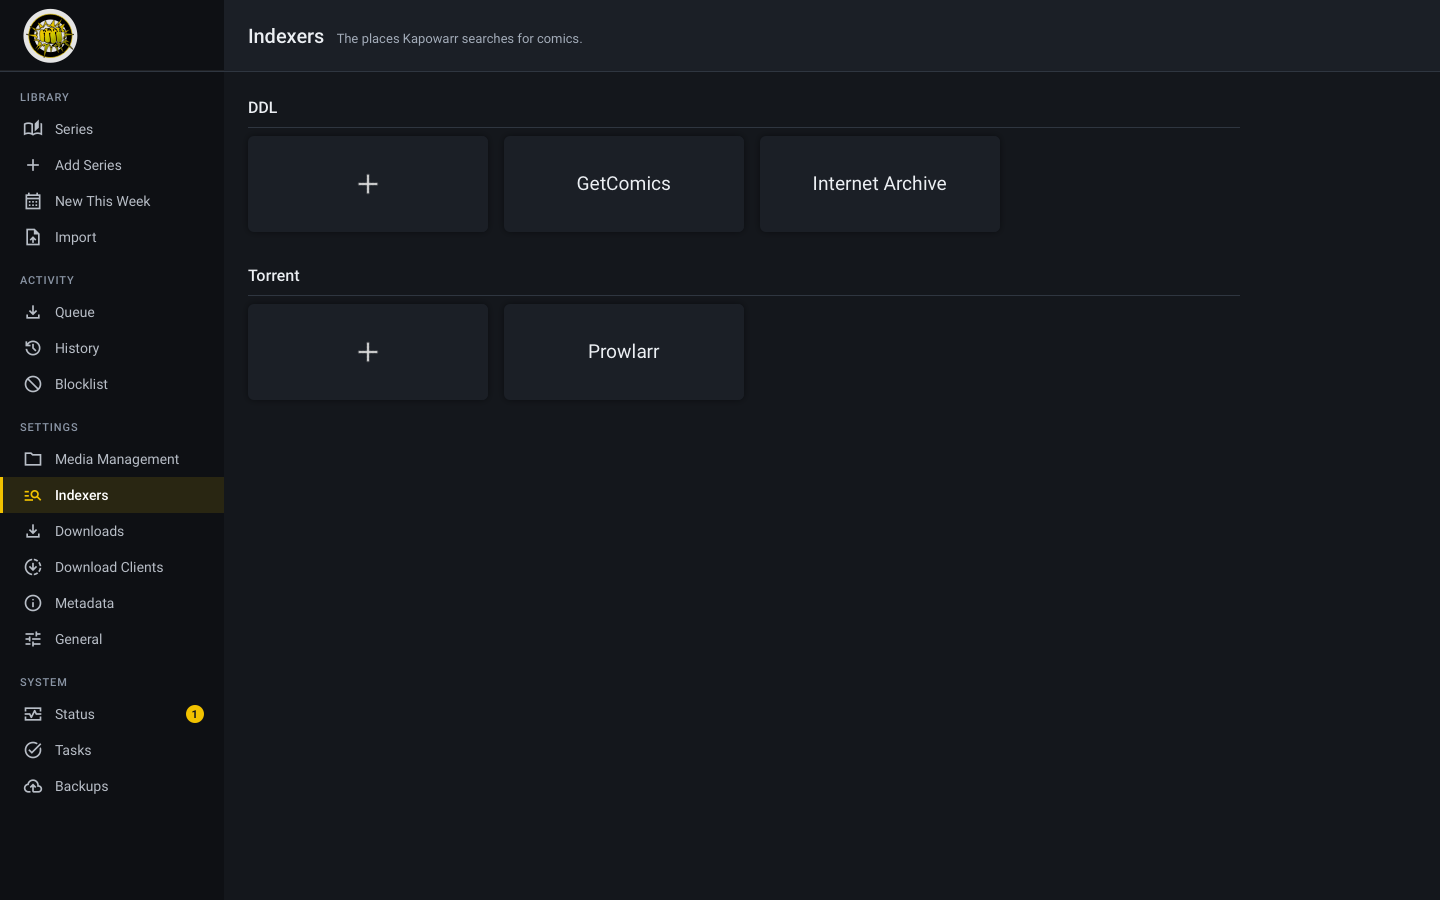
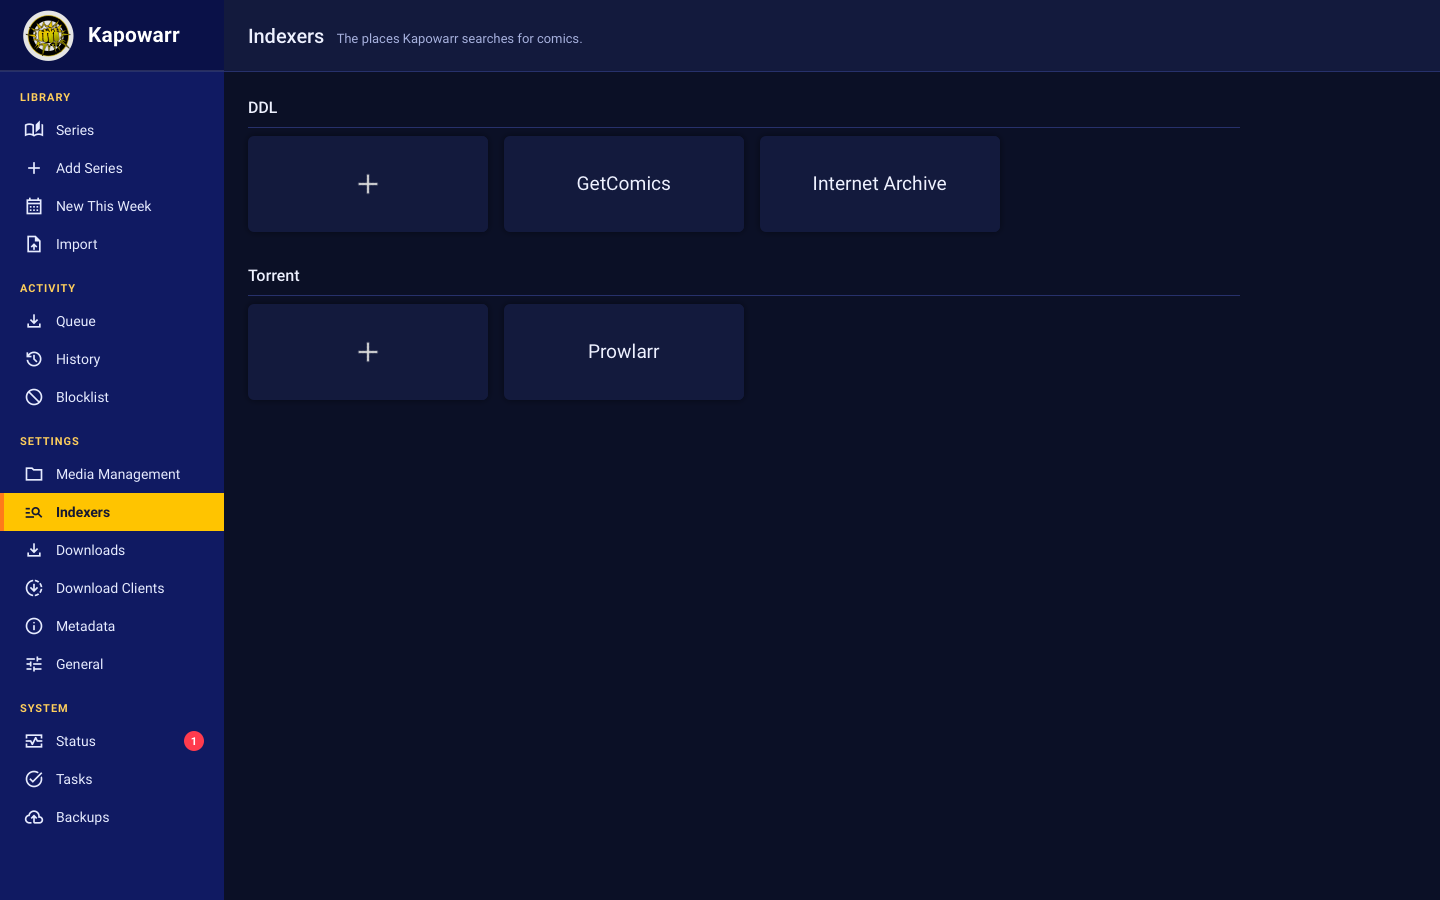
Docs: the vivid palette and new screenshots

Changed region(s): [[0.0, 0.0, 0.1562, 1.0], [0.25, 0.0311, 0.4062, 0.0622]]

diff --git a/docs/Interface.md b/docs/Interface.md
@@ -9,7 +9,7 @@ address of Kapowarr is still there.
 
 ## Finding your way
 
-- **A sidebar with sections.** Library (Series, Add Series, New This Week, Import), Activity (Queue, History, Blocklist), Settings and System. The page you are on is marked with a gold bar. The Queue shows a number while downloads are running, and Status shows a number when something needs attention.
+- **A sidebar with sections.** Library (Series, Add Series, New This Week, Import), Activity (Queue, History, Blocklist), Settings and System. The page you are on is marked in yellow. The Queue shows a number while downloads are running, and Status shows a number when something needs attention.
 - **A title and a plain sentence on every page.** The top bar says where you are and what the page is for, for example "Series: Every comic you collect, and how complete each one is."
 - **Queue, History and Blocklist are tabs of one place**, so you can move between them in one click.
 - **On a phone**, a bar at the bottom has Series, Add, Queue and More. More opens the full menu.
@@ -18,8 +18,8 @@ address of Kapowarr is still there.
 
 <p align="center"><img src="images/ui-series.png" alt="A series page with Have, Missing and In the run, and the list of issues" width="100%"></p>
 
-- Each cover on the shelf shows a bar and a count such as `14 / 15`, and the words **Complete** or **1 missing**. Green is complete, amber is partly there, red is nothing yet. Colour is never the only signal.
-- A gold bookmark on the cover means the series is monitored.
+- Each cover on the shelf shows a bar and a count such as `14 / 15`, and the words **Complete** or **1 missing**. Blue is complete, orange is partly there, red is nothing yet. Colour is never the only signal.
+- A yellow bookmark on the cover means the series is monitored.
 - The series page opens with **Have, Missing and In the run**, then the issue list.
 - All the toolbar buttons have a visible name next to the icon.
 
@@ -31,7 +31,7 @@ When the root folder, the ComicVine key or a download client is missing, the she
 
 <p align="center"><img src="images/ui-add.png" alt="Adding a series: a search box, filters and result cards with an Add to shelf button" width="100%"></p>
 
-Type a name and press Enter. Results come from ComicVine. Each card says **Add to shelf**, or shows a green tick if you already have it.
+Type a name and press Enter. Results come from ComicVine. Each card says **Add to shelf**, or shows a tick if you already have it.
 
 ## Settings
 
@@ -51,7 +51,7 @@ The calendar answers "when does the next issue come out?". Pick **Day, Week, Mon
 - **Year** shows twelve tiles with how many issues come out each month. Press a month to open it.
 - **Coming up** lists the next issue of every series that has a date, for the next month, 3 months, 6 months or year, with "in 4 weeks".
 
-Every label says its state in words as well as colour: **Downloaded**, **Wanted** (already out, still missing), **Not out yet** and **Not monitored**.
+Every label says its state in words as well as colour: **Downloaded** (blue), **Wanted** (orange, already out and still missing), **Not out yet** and **Not monitored**.
 
 <p align="center"><img src="images/ui-calendar-year.png" alt="The year calendar: twelve months with how many issues each one has" width="49%"> <img src="images/ui-mobile-calendar.jpg" alt="The month calendar on a phone, with a dot for each release" width="24%"></p>
 
@@ -69,29 +69,28 @@ Dark is the default, as in Sonarr. Change it under Settings, General, Theme.
 
 ## Colours
 
-One family of cool slate greys carries both themes, so nothing looks like a stray grey.
+Four vivid colours, each with one job, on a bright page in light mode and deep navy (never grey) in dark mode.
 
-| Role | Light | Dark |
+| Job | Light | Dark |
 |---|---|---|
-| Page | `#f4f6f9` | `#14171c` |
-| Cards and bars | `#ffffff` | `#1b1f26` |
-| Text | `#19202a` | `#eceff3` |
-| Quiet text | `#55606f` | `#a3acb9` |
-| Lines | `#dde2e9` | `#2f3640` |
-| Gold (main action, current page) | `#f2c200` | `#f2c200` |
-| Green (have it) | `#1b8a4b` | `#3dbb6d` |
-| Amber (wanted) | `#b86e00` | `#f0a62b` |
-| Red (missing, error) | `#c8323f` | `#ef5b6a` |
-| Blue (not out yet, links) | `#1f64d6` | `#5aa2ff` |
+| Sidebar | `#1a2db0` blue | `#101a62` deep blue |
+| Page | `#f5f6fb` | `#0b1026` |
+| Cards and bars | `#ffffff` | `#131a3d` |
+| Text | `#141833` | `#eef1ff` |
+| Quiet text | `#4d557a` | `#a7b1de` |
+| **Blue**: you have it, links | `#1f55e0` | `#5b93ff` |
+| **Orange**: partly there, wanted | `#c24a00` | `#ff8a3d` |
+| **Yellow**: the current page, the main button, "not out yet" | `#ffc400` | `#ffc400` |
+| **Red**: missing, errors, alerts | `#d1182b` | `#ff5468` |
 
-The sidebar is the same deep ink in both themes. Text on gold is always the dark ink. Every pair above is at least 4.5 to 1 against its background.
+Text on yellow is always the dark ink. Every colour pair is at least 4.5 to 1 against its background, and a state is never shown by colour alone: it always has a word.
 
 ## Design rules
 
-- **The logo stands alone** at the top of the sidebar, with no wordmark next to it.
+- **The logo, large, with the name beside it**, at the top of the sidebar.
 - **One typeface**, Roboto, in regular, medium and bold. Nothing decorative.
 - **One icon set**, Material Symbols Sharp, drawn at one weight and size, instead of a mix of styles. The icons are in `frontend/static/img` and `frontend/static/img/ui`.
-- **Gold (`#ebc700`) is used sparingly**: the current page, the main button on a page and the monitored bookmark. Status uses green, amber and red, and always with a word.
+- **Yellow marks what to press or where you are**: the current page, the main button on a page and the monitored bookmark. Status uses blue, orange and red, and always with a word.
 - **Spacing in steps of 4 pixels**, rows 44 pixels high, buttons 36 pixels, so lists line up and are easy to tap.
 - **Respects "reduce motion"** and keeps a visible focus ring for keyboard use.
 
